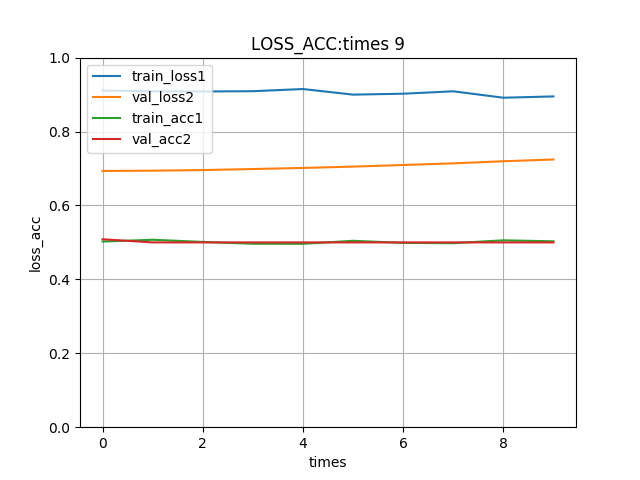
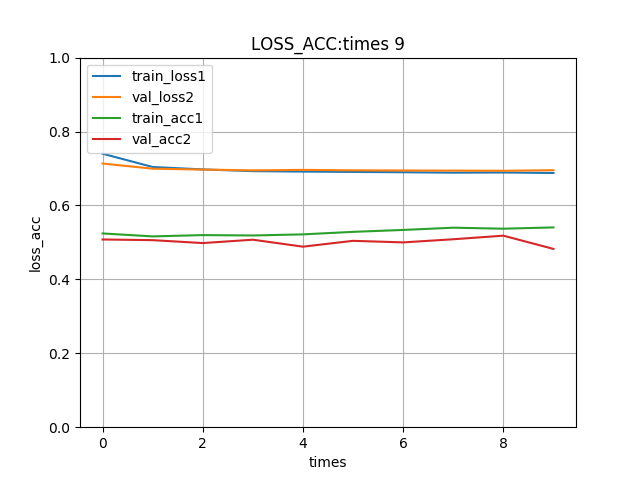
11日同步
11日同步

diff --git a/DTP_deeplearning/methods_2/DTP2_net_cls.py b/DTP_deeplearning/methods_2/DTP2_net_cls.py
@@ -43,17 +43,19 @@ class DTP_set_net(object):
     
     
     def zyh_CNN(self,trainX, trainY, valX=None, valY=None, compiletimes=0, forkinas=False, transferlayer=1, compilemodels=None,
-                earlystop=None, nb_epoch=5, batch_size=7124, fildername="fildername"):
+                earlystop=None, nb_epoch=500, batch_size=7124, fildername="fildername"):
         """
         :argument
         :return:
         """
     
+        #input_row = trainX.shape[1]
+        #input_col = trainX.shape[2]
+        
         input_row = trainX.shape[1]
         input_col = trainX.shape[2]
-        
-        #input_row = trainX.shape[2]
-        #input_col = trainX.shape[1]
+        print("trainX.shape")
+        print(trainX.shape)        
         print("input_row")
         print(input_row)
         print("input_col")
@@ -79,8 +81,8 @@ class DTP_set_net(object):
     
         if compiletimes == 0:
             input = Input(shape=(input_row, input_col))
-            filter1 = 200
-            filtersize1 = 64
+            filter1 = 64
+            filtersize1 = 2
             dropout1 = 0.25
             L1CNN = 0
             nb_classes = 2
@@ -158,17 +160,19 @@ class DTP_set_net(object):
         return cnn, accuracys
     
     def zyh_CNN_one_hot_flying(self,trainX, trainY, valX=None, valY=None, compiletimes=0, forkinas=False, transferlayer=1, compilemodels=None,
-                earlystop=None, nb_epoch=1000, batch_size=7124, fildername=None):
+                earlystop=None, nb_epoch=500, batch_size=4096, fildername=None):
         """
         :argument
         :return:
         """
-    
-        
+        print(type(trainX))
+
+        trainX.T
         input_row = trainX.shape[1]
         input_col = trainX.shape[2]
+
         #input_row = trainX.shape[2]
-        #input_col = trainX.shape[1]        
+        #input_col = trainX.shape[1]
         """
         print(trainY)
         input_row = trainX.shape[2]
@@ -226,20 +230,23 @@ class DTP_set_net(object):
             output = BatchNormalization()(output)
             out = Dense(nb_classes, init='glorot_normal', activation='softmax')(output)
     """
+
+            strides = 1
+            kernal_size_times = 1
             ########## Begin Oneofkey Network ##########
-            x = conv.Convolution1D(201, 2, init='glorot_normal', W_regularizer=regularizers.l1(L1CNN), border_mode="same", name='0')(input)
+            x = conv.Convolution1D(201, 2*kernal_size_times, strides = strides ,init='glorot_normal', W_regularizer=regularizers.l1(L1CNN), border_mode="same", name='0')(input)
             x = Dropout(0.4)(x)
             x = Activation('softsign')(x)
     
-            x = conv.Convolution1D(151, 3, init='glorot_normal', W_regularizer=regularizers.l2(L1CNN), border_mode="same", name='1')(x)
+            x = conv.Convolution1D(151, 3*kernal_size_times, strides = strides,init='glorot_normal', W_regularizer=regularizers.l2(L1CNN), border_mode="same", name='1')(x)
             x = Dropout(0.4)(x)
             x = Activation('softsign')(x)
     
-            x = conv.Convolution1D(151, 5, init='glorot_normal', W_regularizer=regularizers.l2(L1CNN), border_mode="same", name='2')(x)
+            x = conv.Convolution1D(151, 5*kernal_size_times,strides = strides , init='glorot_normal', W_regularizer=regularizers.l2(L1CNN), border_mode="same", name='2')(x)
             x = Dropout(0.4)(x)
             x = Activation('softsign')(x)
     
-            x = conv.Convolution1D(101, 7, init='glorot_normal', W_regularizer=regularizers.l2(L1CNN), border_mode="same", name='3')(x)
+            x = conv.Convolution1D(101, 7*kernal_size_times, strides = strides ,init='glorot_normal', W_regularizer=regularizers.l2(L1CNN), border_mode="same", name='3')(x)
             x = Activation('softsign')(x)
             x_reshape = core.Reshape((x._keras_shape[2], x._keras_shape[1]))(x)
             x = Dropout(0.4)(x)

diff --git a/DTP_deeplearning/DTP_start_training_2.py b/DTP_deeplearning/DTP_start_training_2.py
@@ -42,7 +42,7 @@ def start_training_2(system,fildername,feature_type):
     models, accuracys = Dp_net.zyh_CNN(train_x, train_y, val_x, val_y,compiletimes=0, forkinas=False, transferlayer=1, compilemodels=None,
                 earlystop=None, nb_epoch=10, fildername=fildername)
 
-    for item in range(0, 10):
+    for item in range(0, 1000):
         train_x, train_y = Data_prepare.load_data("train", feature_type,n_to_p_rate=1, random_rate=0.8, system=system)
         val_x, val_y = Data_prepare.load_data("val", feature_type,n_to_p_rate=1, random_rate=0.8, system=system)
         models, accuracys = Dp_net.zyh_CNN(train_x, train_y, val_x, val_y, compiletimes=item, transferlayer=1, forkinas=1, compilemodels=models,
